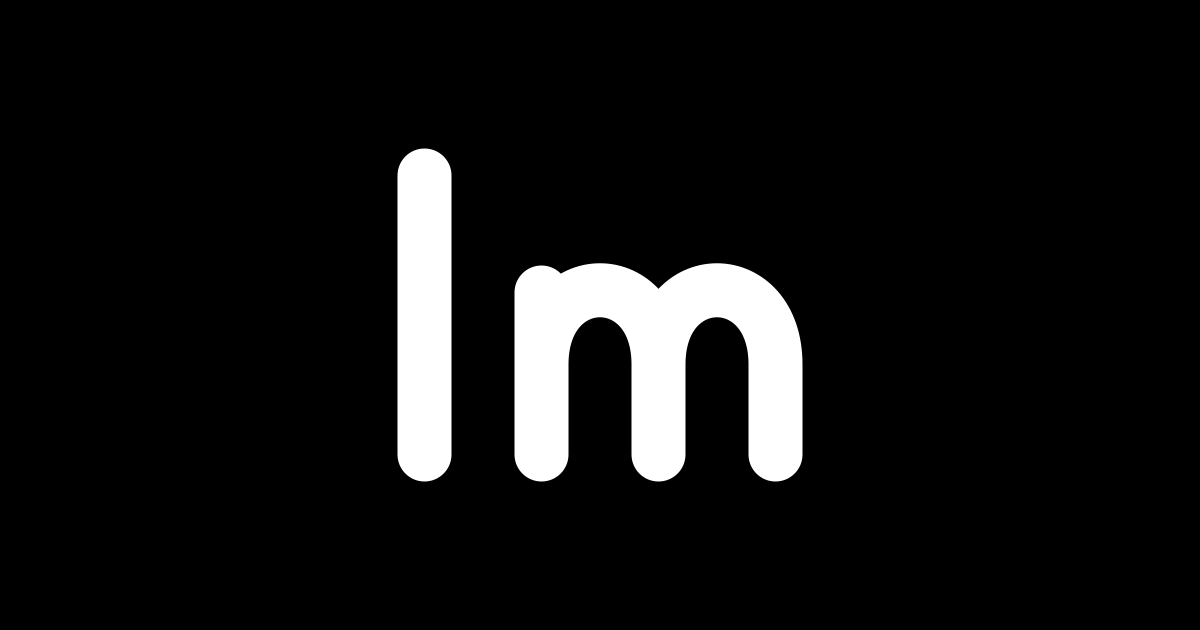
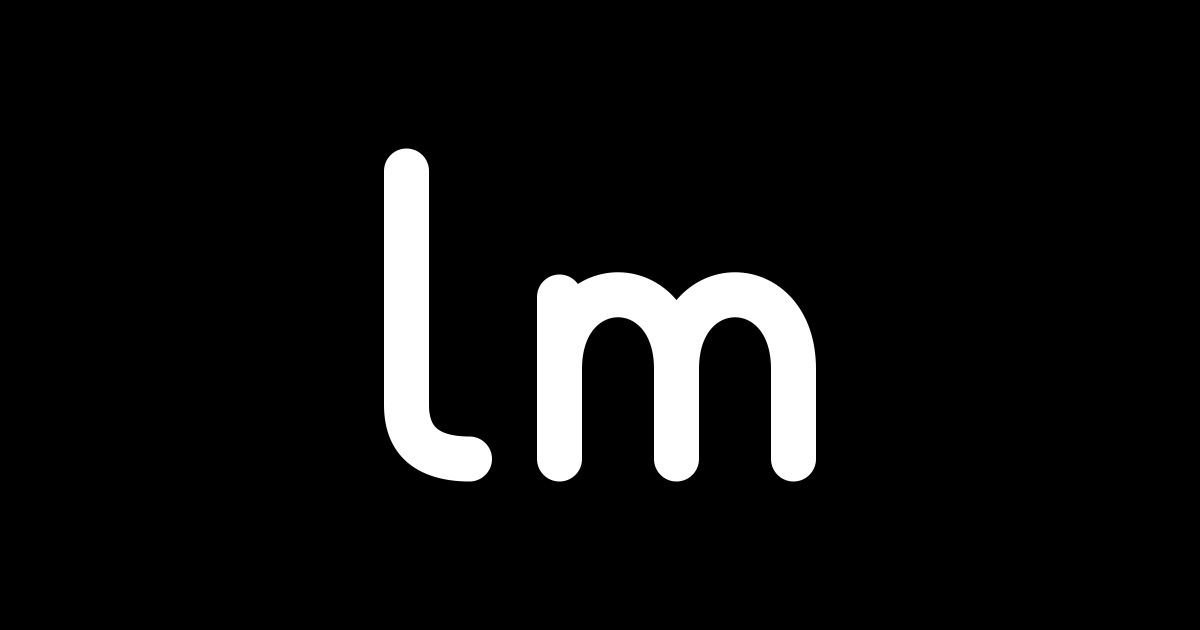
Clarify lowercase lm lettering and preserve original palette

Changed region(s): [[0.3083, 0.2111, 0.6783, 0.7841]]

diff --git a/src/templates.ts b/src/templates.ts
@@ -2,6 +2,7 @@ import { projects, type Project } from './projects.ts';
 import { photographs } from './photography.ts';
 
 export const escape = (value: unknown): string => String(value).replace(/[&<>"']/g, char => ({'&':'&amp;', '<':'&lt;', '>':'&gt;', '"':'&quot;', "'":'&#39;'}[char]!));
+const initialsLogo = '<svg class="initials-mark" viewBox="5 11 53 42" fill="none" stroke="currentColor" stroke-width="5" stroke-linecap="round" stroke-linejoin="round" aria-hidden="true"><path d="M10 16v26q0 6 7 6M27 48V30m0 8c0-11 13-11 13 0v10m0-10c0-11 13-11 13 0v10"/></svg>';
 const arrow = '<svg viewBox="0 0 24 24" fill="none" stroke="currentColor" stroke-width="1.5" aria-hidden="true"><path d="M5 12h14M13 6l6 6-6 6"/></svg>';
 const external = '<svg viewBox="0 0 24 24" fill="none" stroke="currentColor" stroke-width="1.5" aria-hidden="true"><path d="M7 17 17 7M7 7h10v10"/></svg>';
 const copy = '<svg viewBox="0 0 24 24" fill="none" stroke="currentColor" stroke-width="1.5" aria-hidden="true"><rect x="8" y="8" width="11" height="12" rx="2"/><path d="M15 8V5a2 2 0 0 0-2-2H5a2 2 0 0 0-2 2v9a2 2 0 0 0 2 2h3"/></svg>';
@@ -13,7 +14,7 @@ type PageName = 'home' | 'projects' | 'experience' | 'about' | 'contact' | 'resu
 
 function header(active?: PageName) {
   const links: [PageName, string, string][] = [['home','/','Home'],['projects','/projects/','Projects'],['experience','/experience/','Experience'],['about','/about/','About'],['contact','/contact/','Contact']];
-  return `<header class="site-header flex items-center"><a class="wordmark" href="/" aria-label="Luis-Angel Moreno, home">lm<span>.</span></a><nav aria-label="Main navigation">${links.map(([page,href,label])=>`<a href="${href}"${active === page ? ' aria-current="page"' : ''}>${label}</a>`).join('')}</nav><a class="resume-link" href="/resume/"${active === 'resume' ? ' aria-current="page"' : ''}>Resume${arrow}</a></header>`;
+  return `<header class="site-header flex items-center"><a class="wordmark" href="/" aria-label="Luis-Angel Moreno, home">${initialsLogo}<span>.</span></a><nav aria-label="Main navigation">${links.map(([page,href,label])=>`<a href="${href}"${active === page ? ' aria-current="page"' : ''}>${label}</a>`).join('')}</nav><a class="resume-link" href="/resume/"${active === 'resume' ? ' aria-current="page"' : ''}>Resume${arrow}</a></header>`;
 }
 
 function footer(active?: PageName) {
@@ -47,7 +48,7 @@ function heroNavigation() {
     {label:'Photography',href:'/photography/',icon:icon('<path d="M14.5 4h-5L7.5 7H4a2 2 0 0 0-2 2v10a2 2 0 0 0 2 2h16a2 2 0 0 0 2-2V9a2 2 0 0 0-2-2h-3.5L14.5 4Z"/><circle cx="12" cy="13" r="4"/>')},
     {label:'Resume',href:'/resume/',icon:icon('<path d="M14 3H6a2 2 0 0 0-2 2v14a2 2 0 0 0 2 2h12a2 2 0 0 0 2-2V9ZM14 3v6h6M8 13h8M8 17h5"/>')},
   ];
-  return `<div class="hero-object"><div class="hero-particles" aria-hidden="true">${Array.from({length:24},(_,i)=>`<i style="--x:${8+(i*37)%85}%;--y:${5+(i*53)%90}%;--drift:${8+i%7}s;--delay:-${i*.73}s;--size:${i%5 === 0 ? 3 : 2}px"${i%6 === 0 ? ' class="particle-warm"' : ''}></i>`).join('')}</div><nav class="hero-keyboard" aria-label="Explore my portfolio"><a class="build-key hero-key" data-hero-key="projects" href="/projects/" aria-label="Explore my projects"><span class="key-body"><span class="key-face"><span class="key-monogram" aria-hidden="true">lm<span>.</span></span><span class="key-legend">Projects${arrow}</span></span></span></a>${[...keys.filter(key=>key.label !== 'Photography'),...keys.filter(key=>key.label === 'Photography')].map(key=>`<a class="hero-key nav-key${key.label === 'Contact' ? ' key-contact' : key.label === 'Experience' ? ' key-experience' : key.label === 'Photography' ? ' key-photography' : ''}" data-hero-key="${key.label === 'Resume' ? 'resume' : key.label.toLowerCase()}" href="${key.href}"><span class="key-body"><span class="key-face">${key.icon}<span class="key-legend">${key.label}</span></span></span></a>`).join('')}</nav><p class="key-caption">Pick a key. Take a look around.</p></div>`;
+  return `<div class="hero-object"><div class="hero-particles" aria-hidden="true">${Array.from({length:24},(_,i)=>`<i style="--x:${8+(i*37)%85}%;--y:${5+(i*53)%90}%;--drift:${8+i%7}s;--delay:-${i*.73}s;--size:${i%5 === 0 ? 3 : 2}px"${i%6 === 0 ? ' class="particle-warm"' : ''}></i>`).join('')}</div><nav class="hero-keyboard" aria-label="Explore my portfolio"><a class="build-key hero-key" data-hero-key="projects" href="/projects/" aria-label="Explore my projects"><span class="key-body"><span class="key-face"><span class="key-monogram" aria-hidden="true">${initialsLogo}<span>.</span></span><span class="key-legend">Projects${arrow}</span></span></span></a>${[...keys.filter(key=>key.label !== 'Photography'),...keys.filter(key=>key.label === 'Photography')].map(key=>`<a class="hero-key nav-key${key.label === 'Contact' ? ' key-contact' : key.label === 'Experience' ? ' key-experience' : key.label === 'Photography' ? ' key-photography' : ''}" data-hero-key="${key.label === 'Resume' ? 'resume' : key.label.toLowerCase()}" href="${key.href}"><span class="key-body"><span class="key-face">${key.icon}<span class="key-legend">${key.label}</span></span></span></a>`).join('')}</nav><p class="key-caption">Pick a key. Take a look around.</p></div>`;
 }
 
 export function homepage() {

diff --git a/src/styles.css b/src/styles.css
@@ -57,6 +57,9 @@ img{@apply block;max-width:100%}
 .page-shell{max-width:1456px;margin:auto;padding:0 clamp(24px,4.4vw,72px)}
 .site-header{height:116px;@apply flex;@apply items-center;gap:60px}
 .wordmark{font-size:30px;font-weight:800;letter-spacing:-.04em;line-height:1}
+.wordmark{display:inline-flex;align-items:baseline}
+.initials-mark{width:1.5em;height:1.2em;vertical-align:baseline;flex:none}
+.key-monogram{display:flex;align-items:baseline}
 .wordmark span{color:var(--color-orange)}
 .site-header nav{@apply flex;gap:32px;@apply ml-auto;align-items:center}
 .site-header nav a,.resume-link{color:var(--color-secondary);font-size:13px;@apply inline-flex;@apply items-center;gap:5px;padding:8px 0;@apply relative;transition:color var(--duration-fast) var(--ease-out)}
